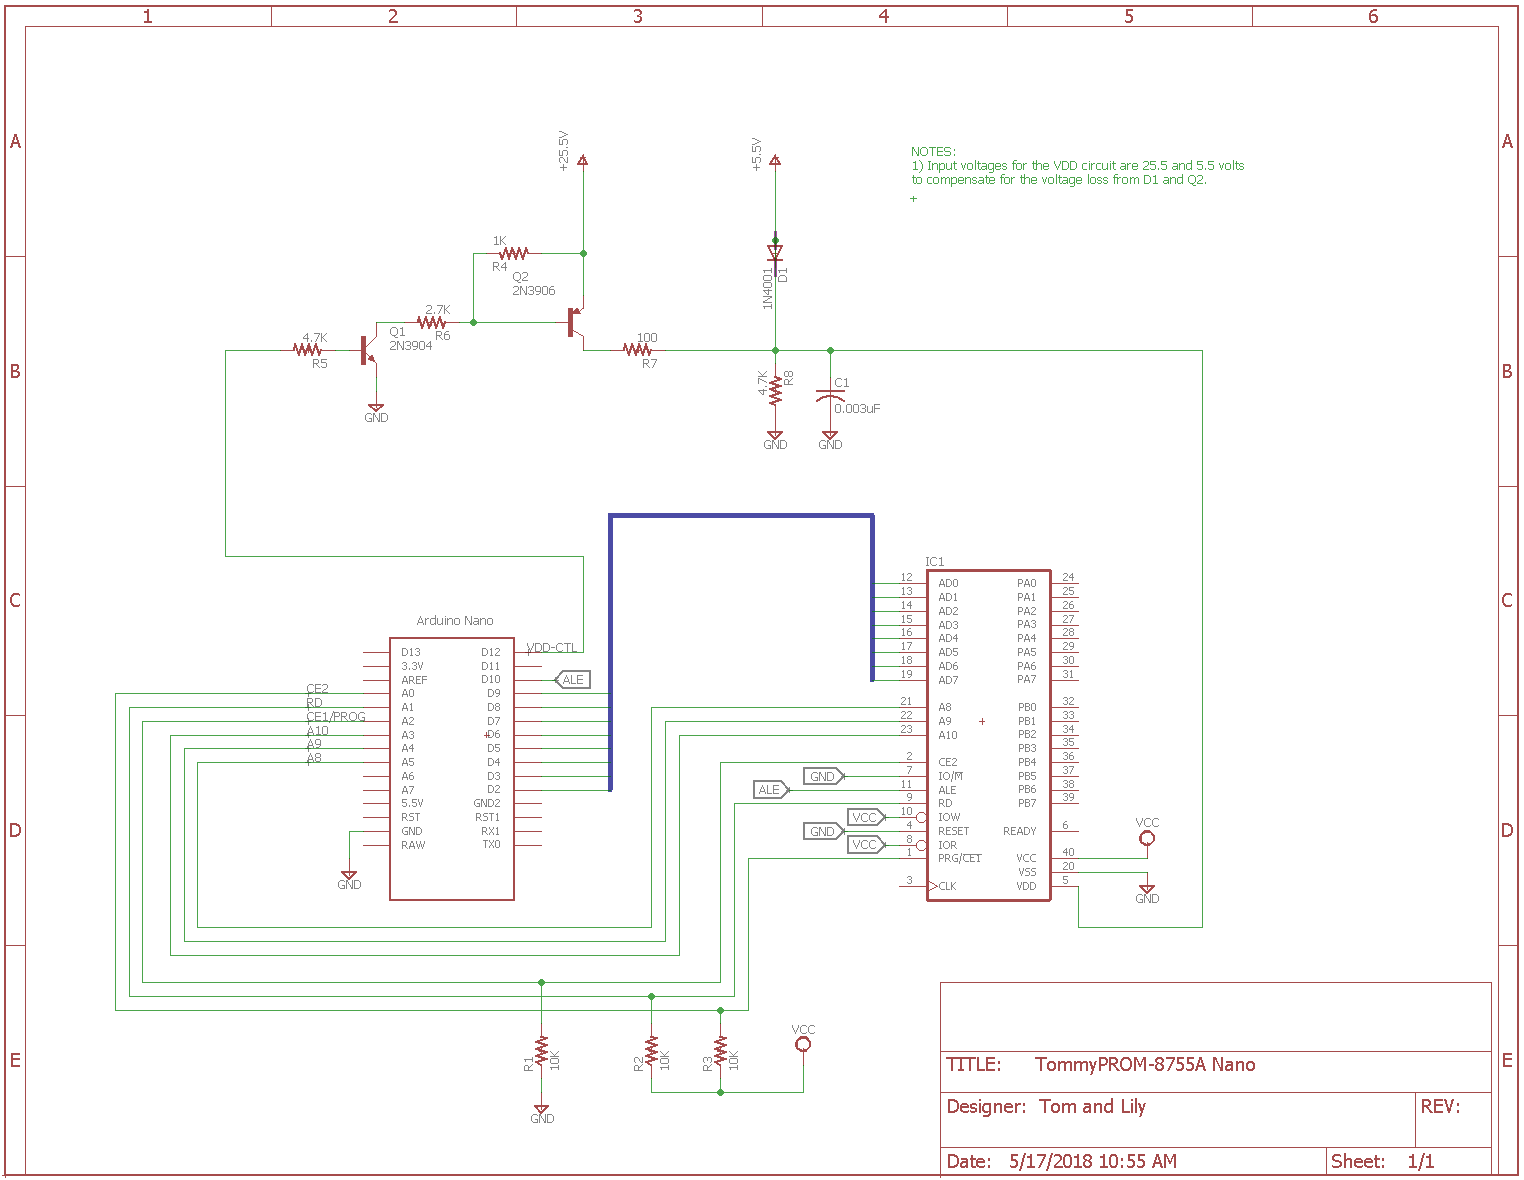
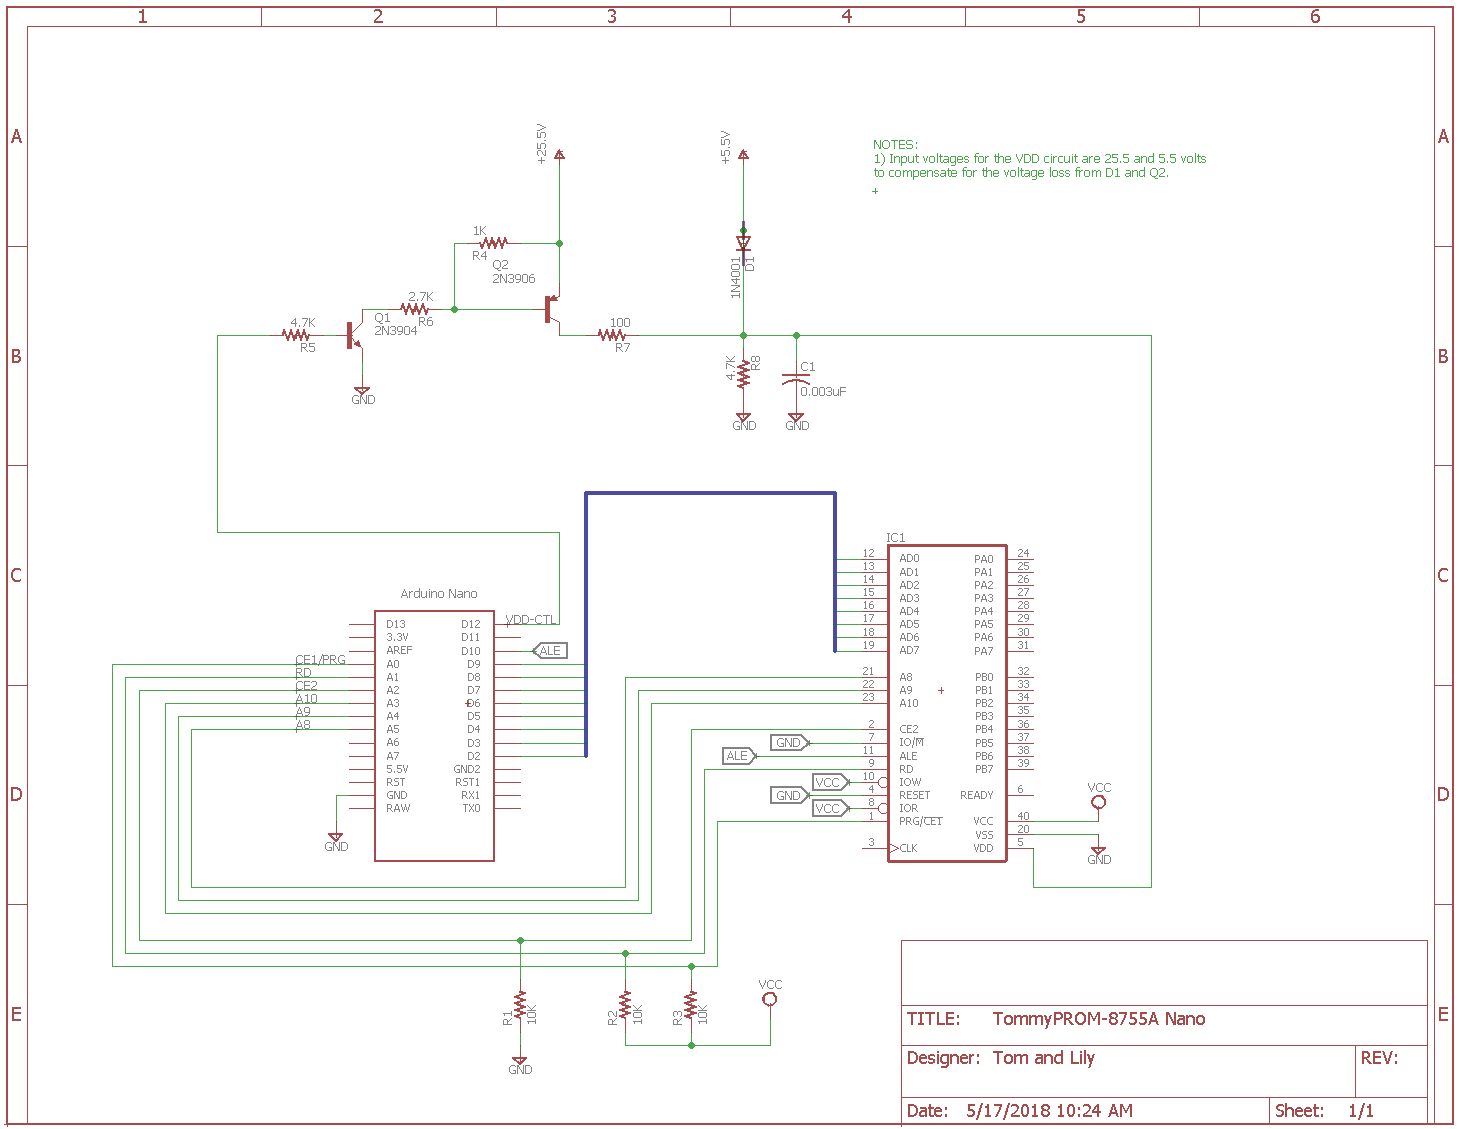
Fix schematic label errors and pin assignments on 8755A device to match the schematic

diff --git a/TommyPROM/PromDevice8755A.cpp b/TommyPROM/PromDevice8755A.cpp
@@ -2,9 +2,9 @@
 #if defined(PROM_IS_8755A)
 
 
-#define CE2         A0
+#define CE1         A0
 #define RD          A1
-#define CE1         A2
+#define CE2         A2
 #define AD10        A3
 #define AD9         A4
 #define AD8         A5
